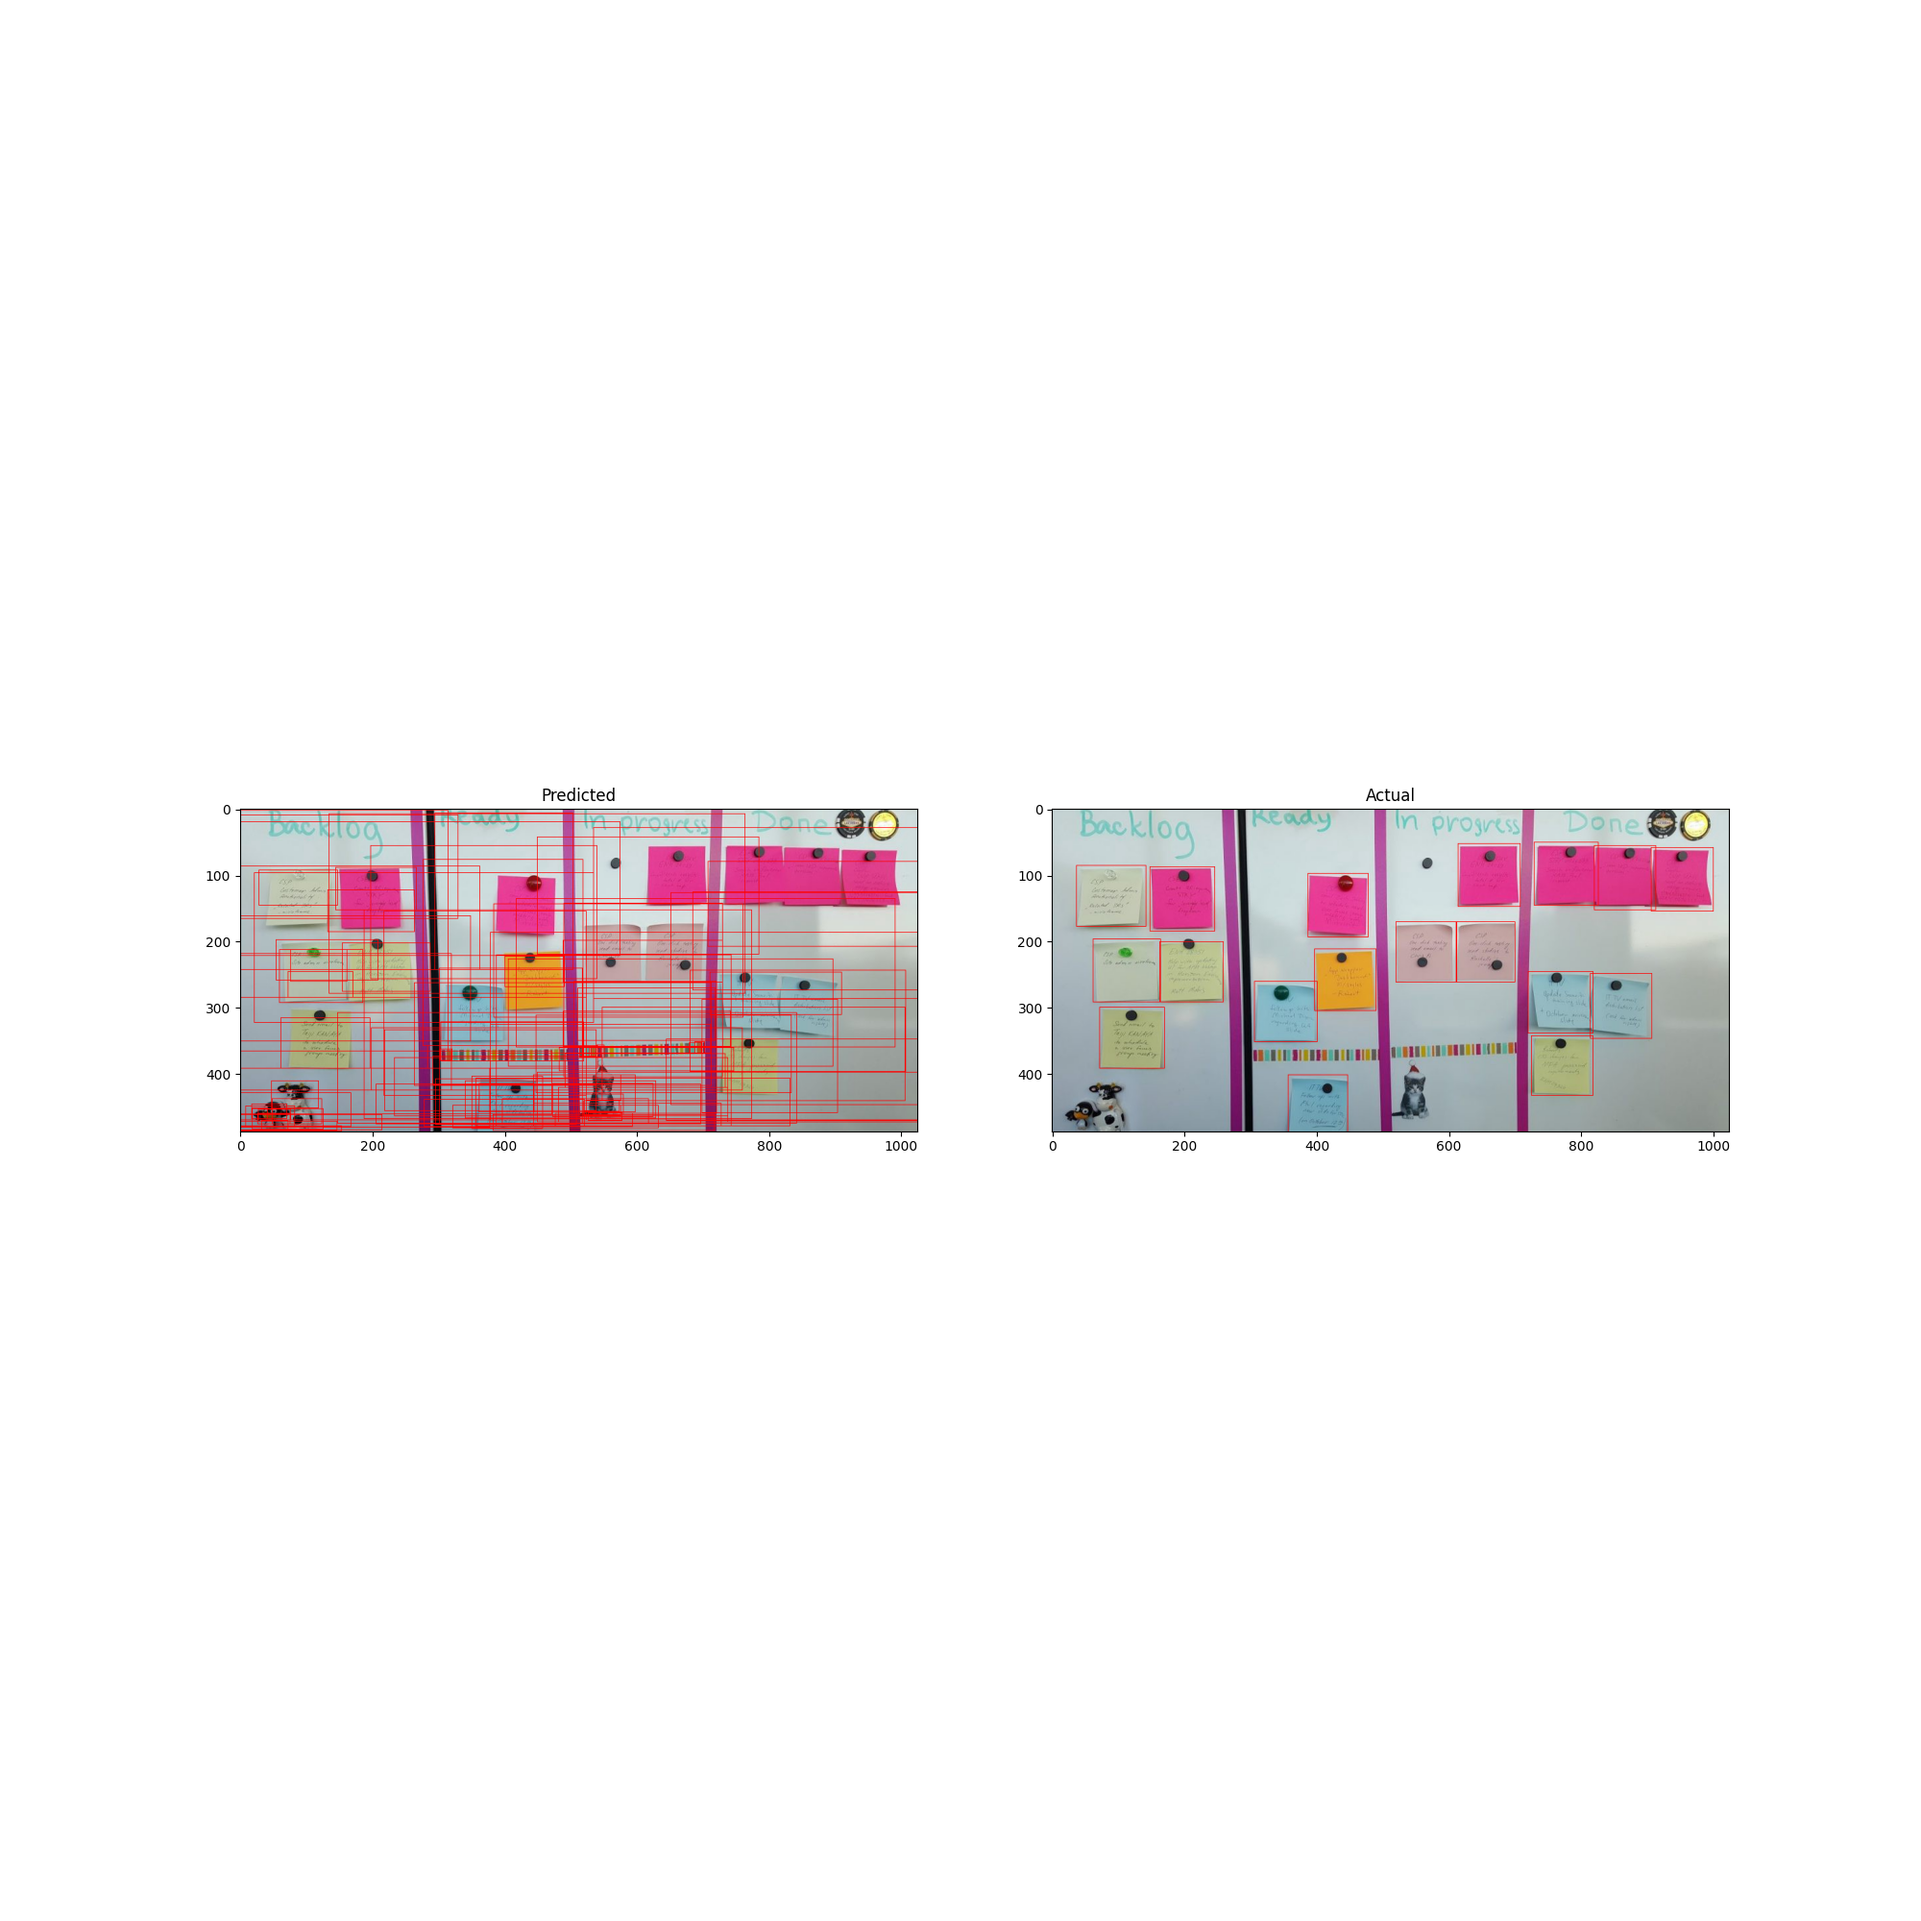
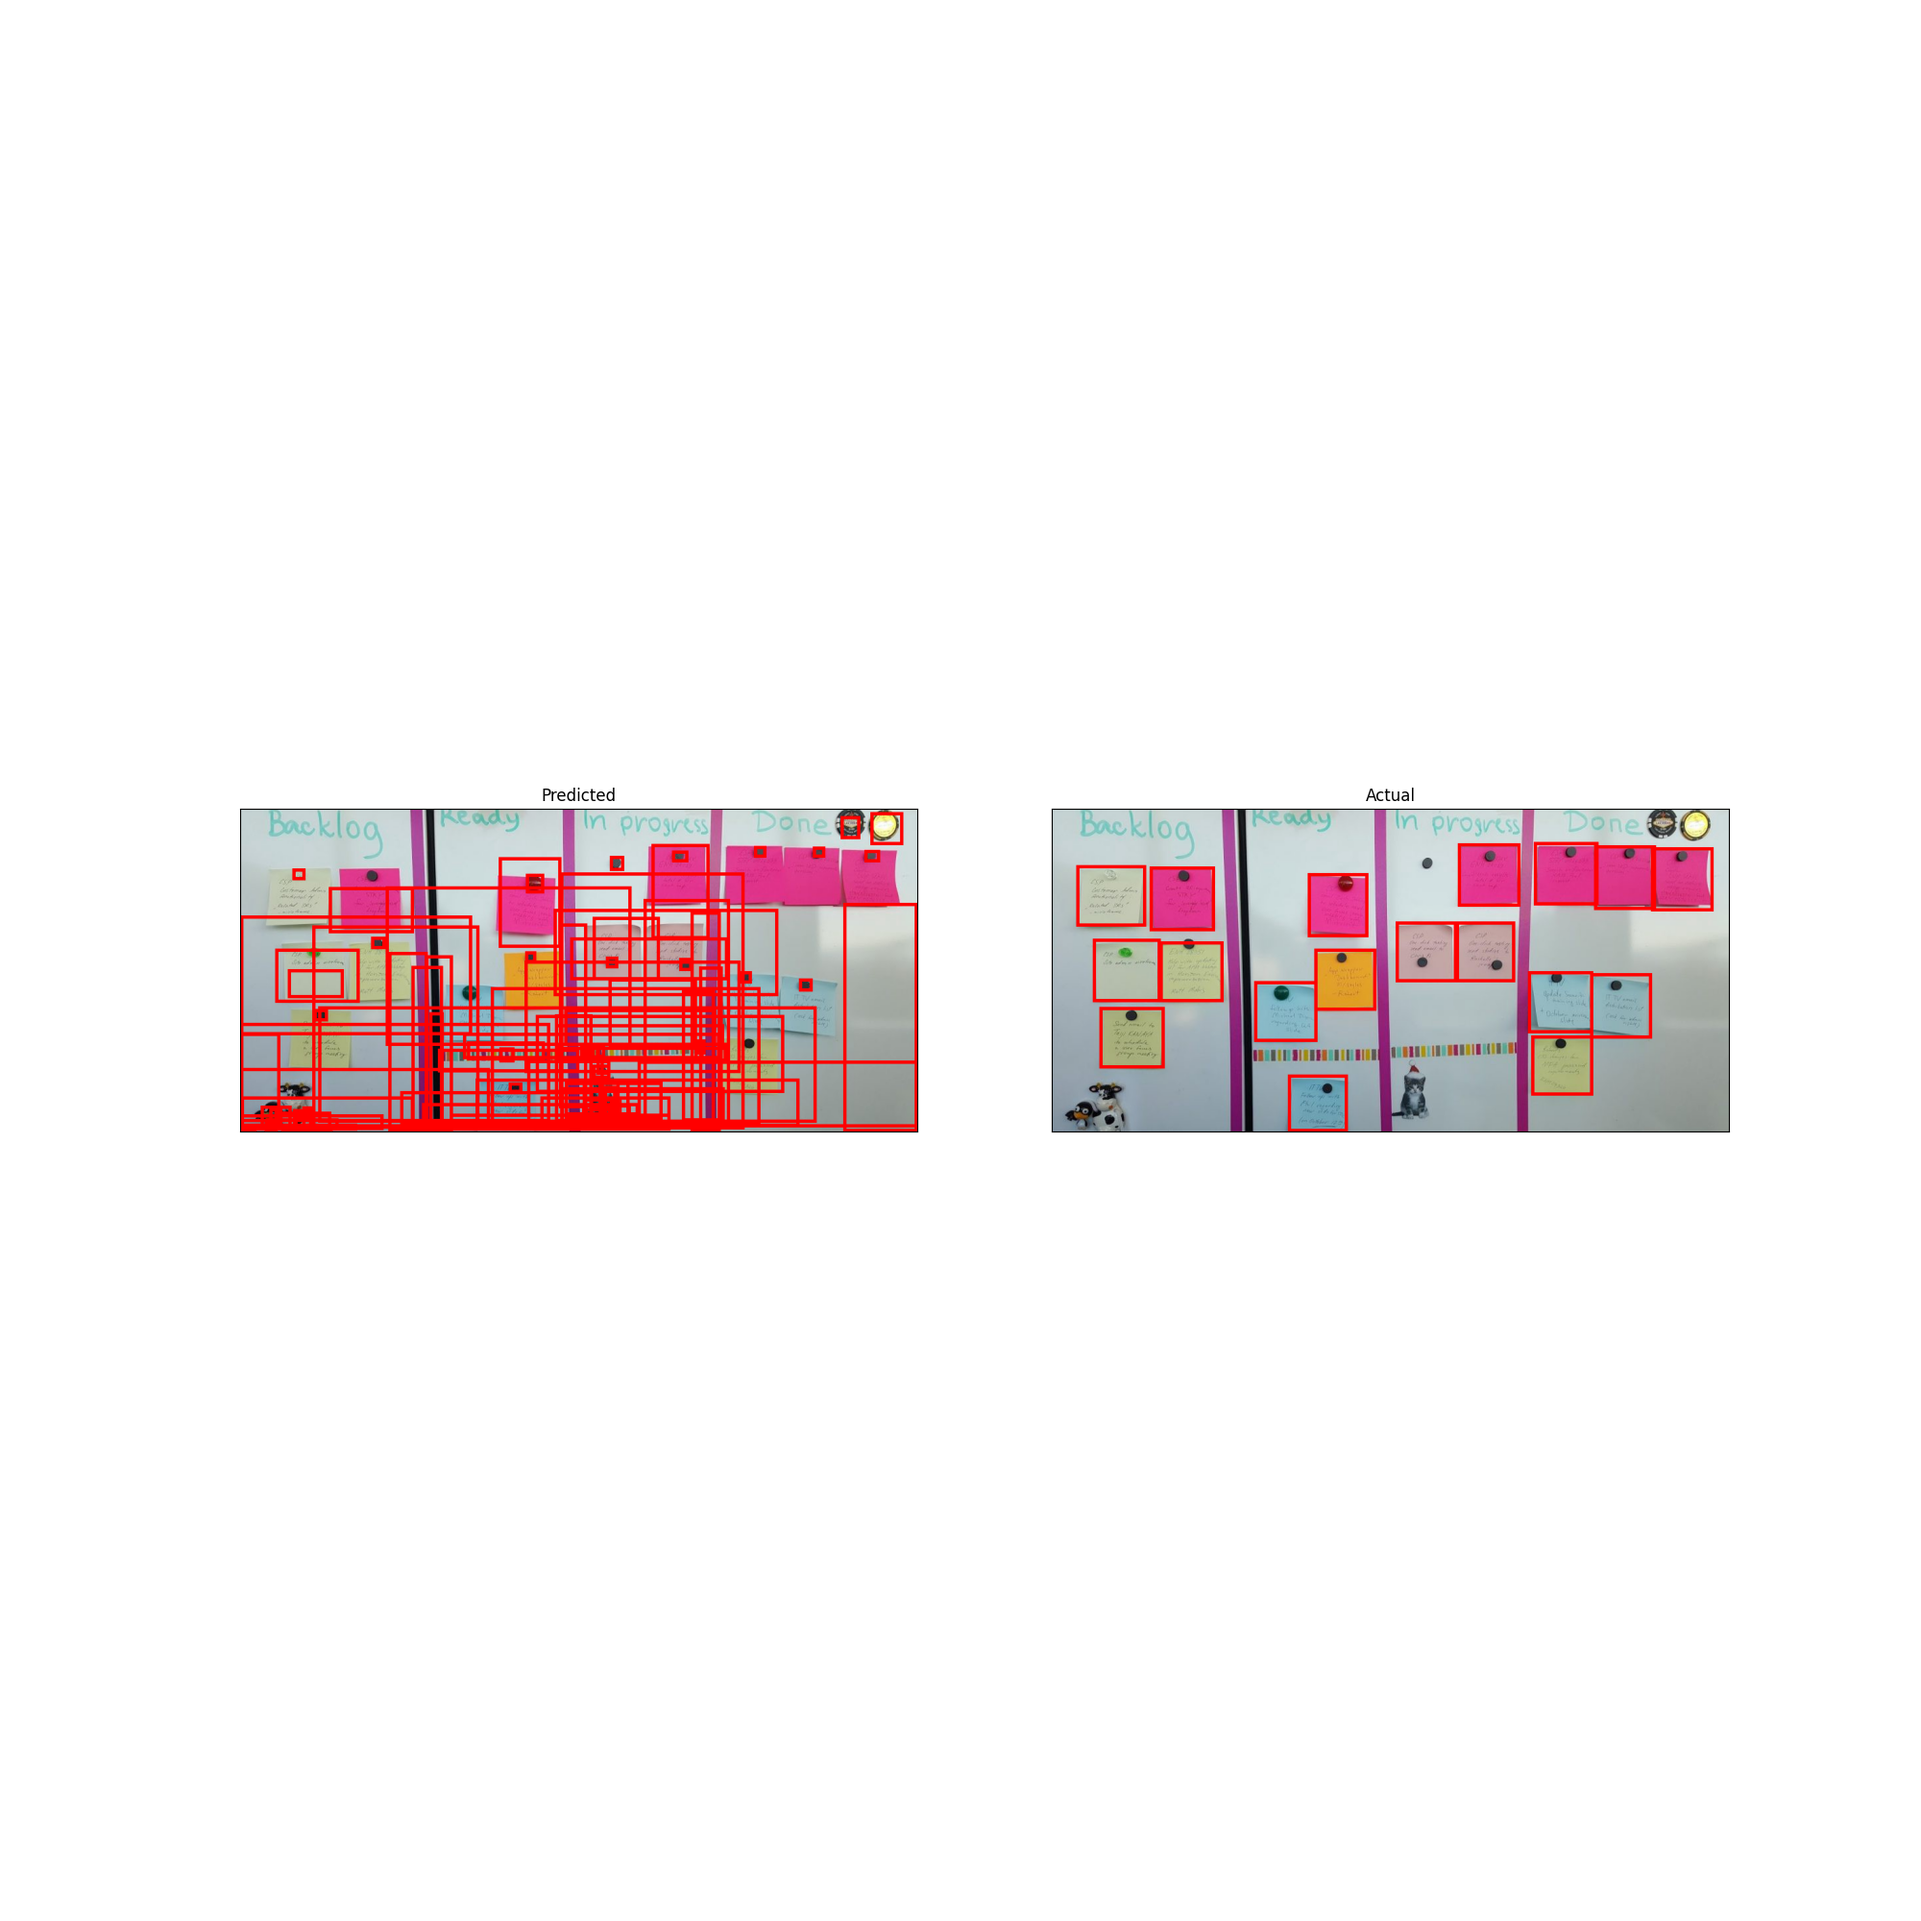
Remove axes labels

diff --git a/segment.py b/segment.py
@@ -84,6 +84,8 @@ def plot_bb(image, target, ax):
     img = (image.cpu() * 255).to(dtype = torch.uint8)
     bb = draw_bounding_boxes(img, boxes, colors="red", width=5)
     ax.imshow(bb.permute(1, 2, 0))
+    ax.set_xticks([])
+    ax.set_yticks([])
 
 
 if __name__ == "__main__":
